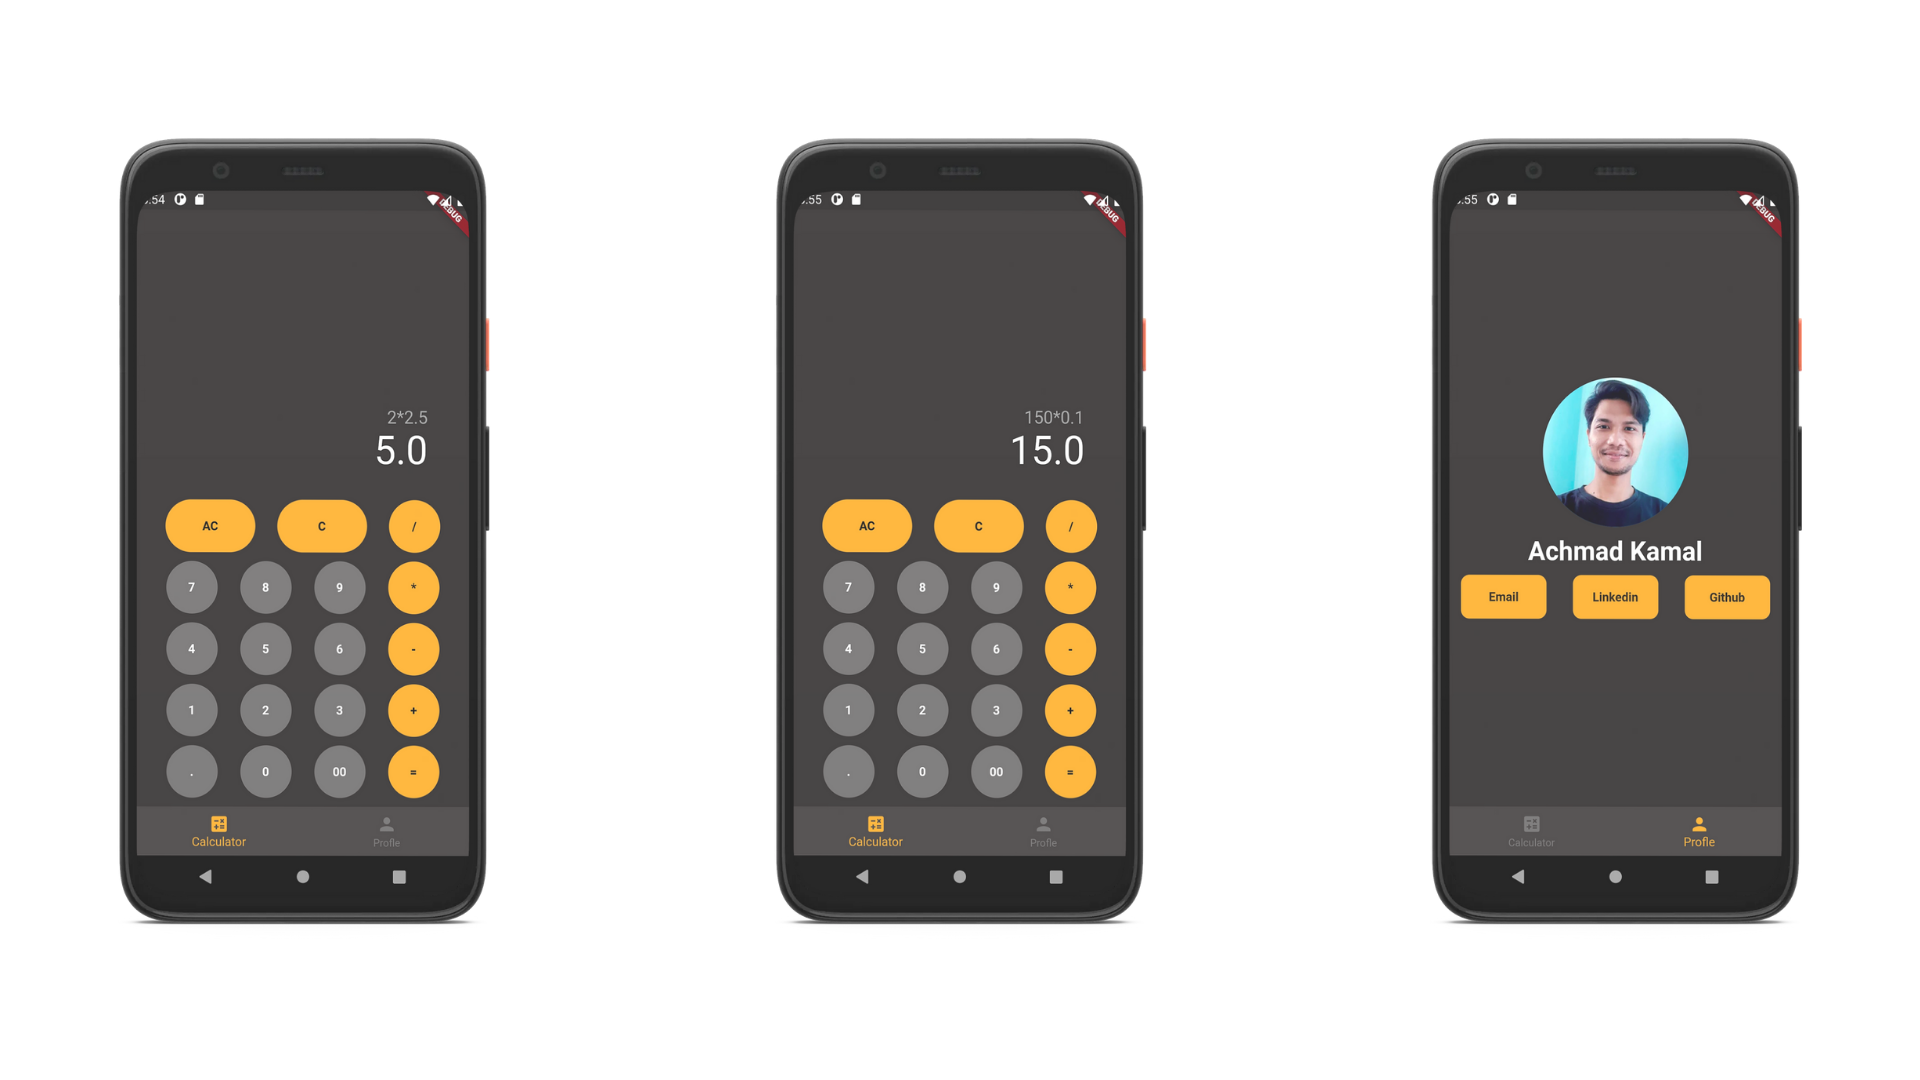
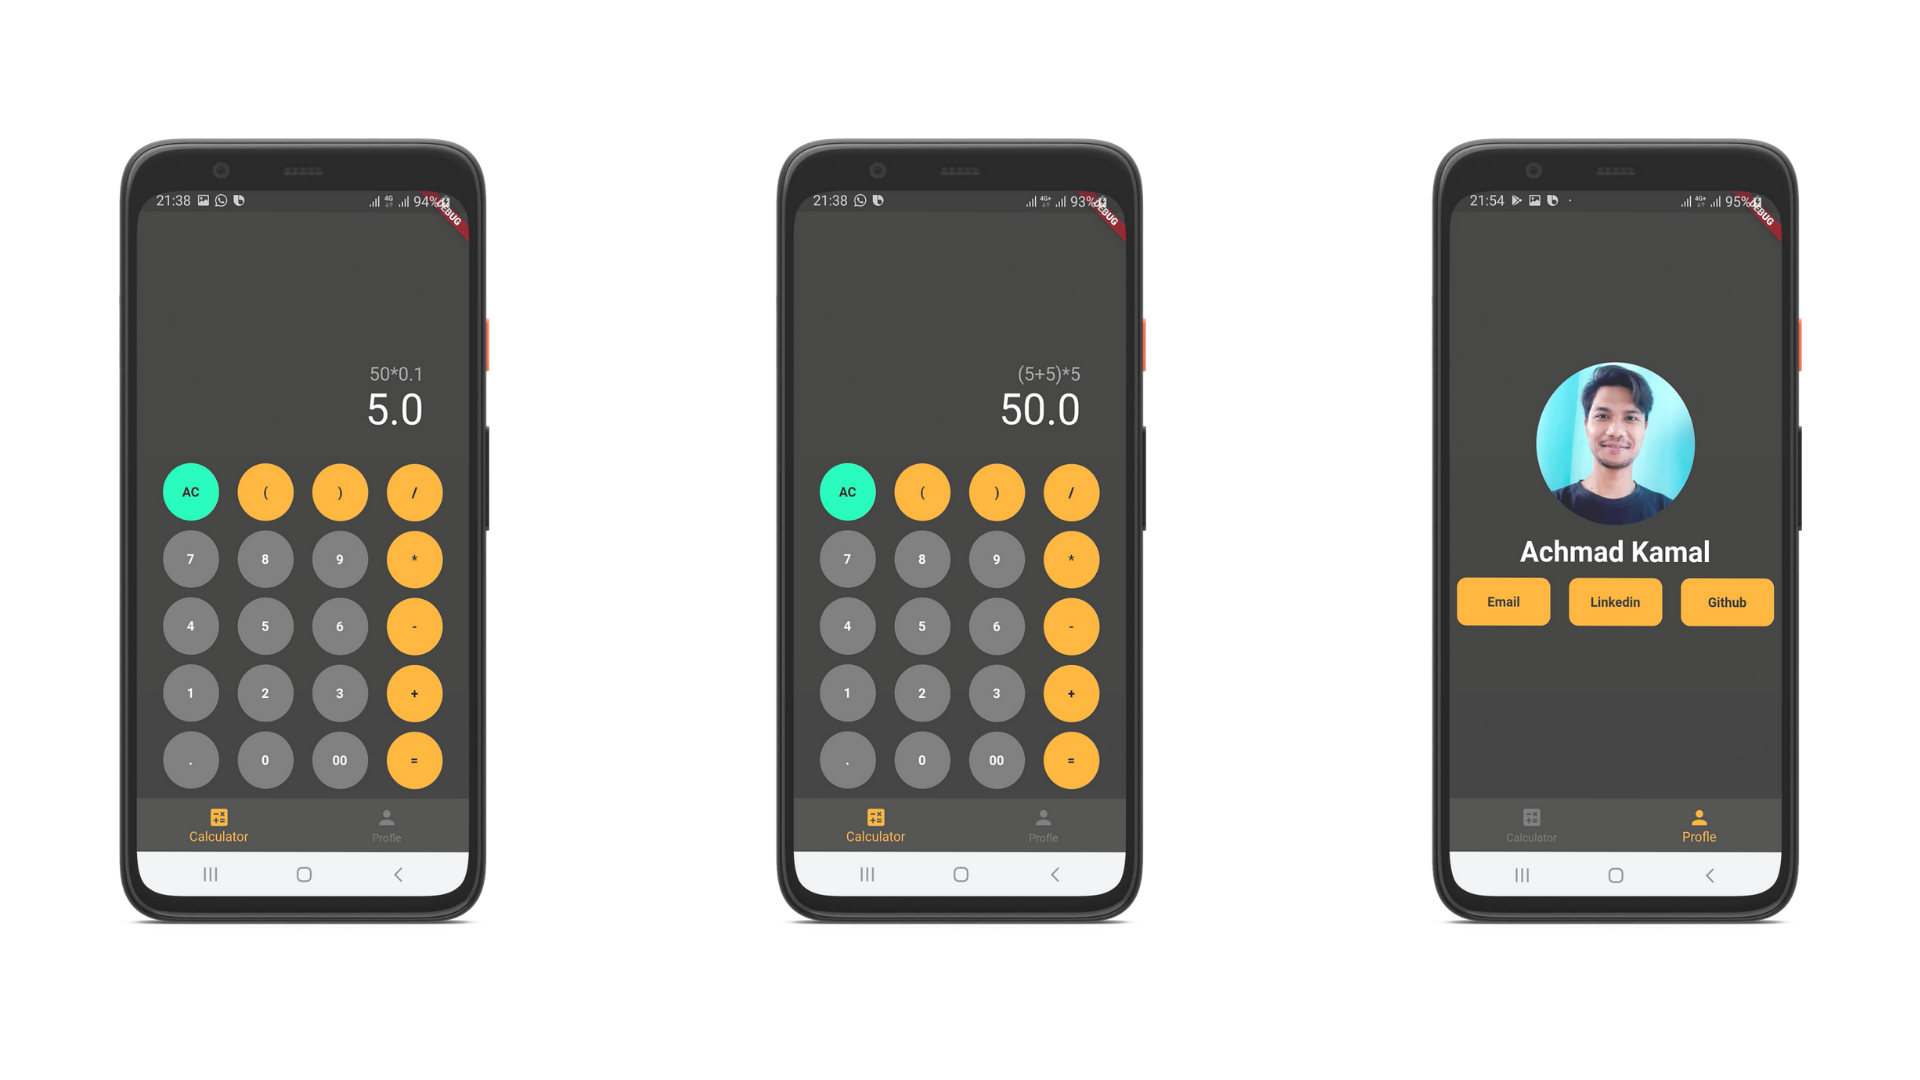
second commit

diff --git a/lib/screen/calculator_screen.dart b/lib/screen/calculator_screen.dart
@@ -50,17 +50,21 @@ class CalculatorScreen extends StatelessWidget {
             children: <Widget>[
               CalculatorButton(
                 textColor: Colors.black,
-                color: kOrange,
-                width: 105.0,
+                color: Colors.greenAccent,
                 text: 'AC',
                 buttonPressed: provider.allClear,
               ),
               CalculatorButton(
                 textColor: Colors.black,
                 color: kOrange,
-                width: 105.0,
-                text: 'C',
-                buttonPressed: provider.clear,
+                text: '(',
+                buttonPressed: provider.buttonPressed,
+              ),
+              CalculatorButton(
+                textColor: Colors.black,
+                color: kOrange,
+                text: ')',
+                buttonPressed: provider.buttonPressed,
               ),
               CalculatorButton(
                 textColor: Colors.black,

diff --git a/lib/provider_class/calculator_app.dart b/lib/provider_class/calculator_app.dart
@@ -18,11 +18,6 @@ class CalculatorApp with ChangeNotifier {
     notifyListeners();
   }
 
-  void clear(String newValue) {
-    valueInput = '';
-    notifyListeners();
-  }
-
   void buttonPressed(String newValue) {
     valueInput += newValue;
     notifyListeners();
